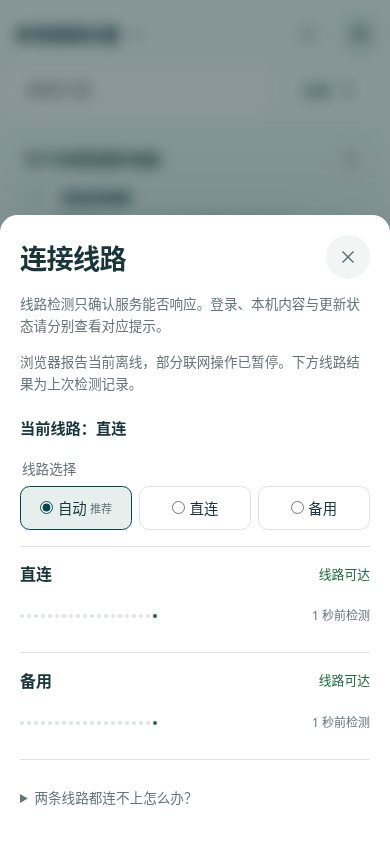
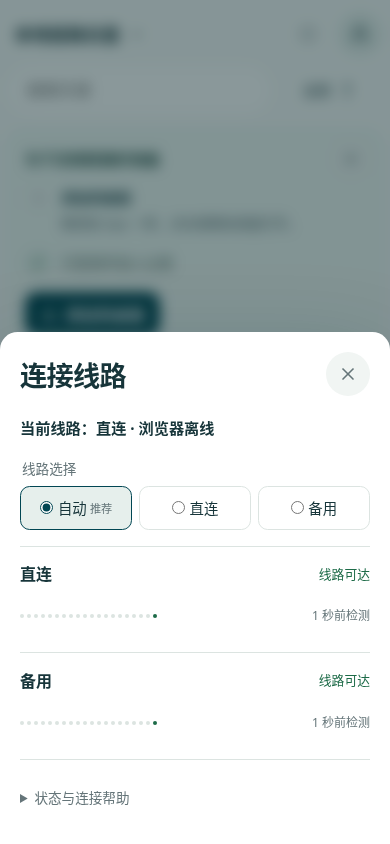
docs: update compact connection UI screenshots and state definitions

Changed region(s): [[0.0, 0.2464, 1.0, 0.4621], [0.0923, 0.9242, 0.4923, 0.955], [0.3385, 0.4929, 0.5538, 0.5237]]

diff --git a/docs/operations/connection-status-mismatch.md b/docs/operations/connection-status-mismatch.md
@@ -131,8 +131,19 @@ HTML Standard 对 [navigator.onLine](https://html.spec.whatwg.org/multipage/syst
 
 ## 截图对照（2026-11-14）
 
-用户希望用界面理解差异后，使用旧源码 `04e6b27` 与 PR 源码 `87391ac` 分别启动真实本地页面，完成同一套“联网确认后台权限 → health 成功 → 浏览器断网 → 看菜单／面板 → 点击通道”操作。[截图及条件](connection-status-mismatch/README.md)包含七张原始 PNG 与两份来源记录。它们不是用户故障实录；面板取景在上次成功约一秒后暂停测试时钟，不证明持续成功或系统误报。源码模式的版本时间也不能用来核对已部署版本。
+用户希望用界面理解差异后，使用旧源码 `04e6b27` 与 PR 源码 `0a83492` 分别启动真实本地页面，完成同一套“联网确认后台权限 → health 成功 → 浏览器断网 → 看菜单／面板 → 点击通道”操作。[截图及条件](connection-status-mismatch/README.md)包含八张原始 PNG 与两份来源记录。它们不是用户故障实录；面板取景在上次成功约一秒后暂停测试时钟，不证明持续成功或系统误报。源码模式的版本时间也不能用来核对已部署版本。
 
 截图进一步确认：旧列表原本就会通过 `useNetworkStatus()` 显示“当前离线，已保存的乐谱可以继续打开”，同时旧连接按钮仍显示普通 Wifi；IdentityNotice 被抑制的是独立的身份 checking / unreachable 信息，不能混同为全部离线文字被隐藏。
 
 实际取景还发现离线文字和连接入口共用左下位置。本 PR 以可见连接入口为条件，将该文字放到入口上方；capture 对实际 bounding boxes 断言无重叠。两份源码的后台与通道前置门禁均由运行中的页面验证：断网后菜单不发后台权限请求，点击通道不发选择 POST。这些功能门禁没有被截图或本 PR 取消。
+
+
+## 默认精简与状态清单（2026-11-14）
+
+按用户反馈，移除面板默认新增的两段范围说明，浏览器离线只作为当前线路旁的短提示；详细解释并入原生 details“状态与连接帮助”，默认关闭，可用键盘 Enter 展开。具体登录冲突、未确认登录及恢复动作不隐藏。
+
+再次只读核对：线上 stable 仍为 aa604ba，beta/backend 仍为 04e6b27，revision 44。两份线上入口 JS 都没有新增的“浏览器离线”标签；“连接异常”“需处理”“可连接”和“结果已过期”已经存在。PR 新增的是浏览器信号展示，并不是新增一种网络判断或取消原有功能门禁。
+
+[完整状态清单](connection-status-mismatch/states.md)区分入口文字、检查图标、面板当前线路、每路探测结果和新鲜度。关键区别：“浏览器离线”由 navigator=false 触发；“连接异常”由当前线路的新鲜失败证据触发。条件可重叠，入口按浏览器离线、连接异常、需处理的顺序显示一条文字；旋转检测图标可同时出现。无文字 Wifi 也可能是未知、过期或身份未确认，不应概括为所有功能正常。
+
+本地 73 条连接相关测试通过；真实 Chromium 回归验证默认说明隐藏、键盘展开／收起、断网与恢复，同时保留选路和检测历史。更新截图包含默认收起和点击展开两个状态，仍为隔离环境而非用户故障实录。

diff --git a/docs/operations/connection-status-mismatch/README.md b/docs/operations/connection-status-mismatch/README.md
@@ -3,7 +3,7 @@
 这些是隔离测试环境的真实页面截图，**不是用户设备的故障实录**，也不是直接截取已部署应用壳。界面没有通过 DOM 注入改写，没有绘制或修改截图像素。
 
 - 旧版产品源码：`04e6b270439f4f461832a22f4651147c41920c9e`。
-- PR 版产品源码：`87391aca20d709c4b17851d0b43b41e985d6a3ff`，包含离线入口标签和提示避让样式。
+- PR 版产品源码：`0a834924d75bacef65228c6f17ac516a484d56ad`，默认收起状态解释，保留离线入口标签和提示避让样式。
 - Chromium 156，390 × 844；由本地 Worker / D1 / R2 提供合成用户、后台权限、云盘和更新目录。没有使用真实登录或用户文件。两个版本共用同样的测试 fixture 支持。
 - Service Worker 被测试上下文禁用；这是页面内网络状态对照，不是离线应用壳冷启动验证。
 - 先联网获取真实 health 响应，再用 `context.setOffline(true)` 实际断开浏览器网络。没有改写 navigator getter，也没有代答 health。
@@ -17,7 +17,8 @@
 | before-online-menu.png | 旧版联网菜单，存在“产品后台” |
 | before-offline-menu.png | 同一旧版测试用户断网后：菜单没有“产品后台”，左下仍为 Wifi 图标，同时页面报告离线 |
 | before-offline-panel.png | 旧版面板仍显示上一次“可连接”，采样时间约一秒前 |
-| after-offline-panel.png | 同样条件下，PR 版明确显示浏览器离线，并说明线路结果是上次检测记录 |
+| after-offline-panel.png | 同样条件下，PR 版默认只在当前线路旁显示浏览器离线，状态解释默认收起 |
+| after-expanded-status-help.png | 点击或按 Enter 展开“状态与连接帮助”后才出现解释 |
 | after-offline-entry.png | 关闭面板后，PR 版入口显示“浏览器离线”；原有页面离线提示放在其上方，不互相遮挡 |
 | before-offline-channel.png | 旧版通道选择的离线前置门禁 |
 | after-offline-channel.png | PR 版保留该门禁，不能从提示修复推断功能已经恢复 |
@@ -33,3 +34,5 @@ PLAYWRIGHT_CHROMIUM_EXECUTABLE_PATH=/path/to/local-chromium \
 ```
 
 PR worktree 使用 `after`。旧源码 worktree 只需共用 PR 版本的两个测试 fixture 文件，以启用合成后台与更新目录；不替换产品源码。测试主机应只解析到 127.0.0.1，浏览器仅忽略本地合成 HTTPS 证书。
+
+完整状态与触发条件见 [states.md](states.md)。当前默认面板没有新增的两段长说明；具体身份冲突与恢复操作仍按原条件可见。
